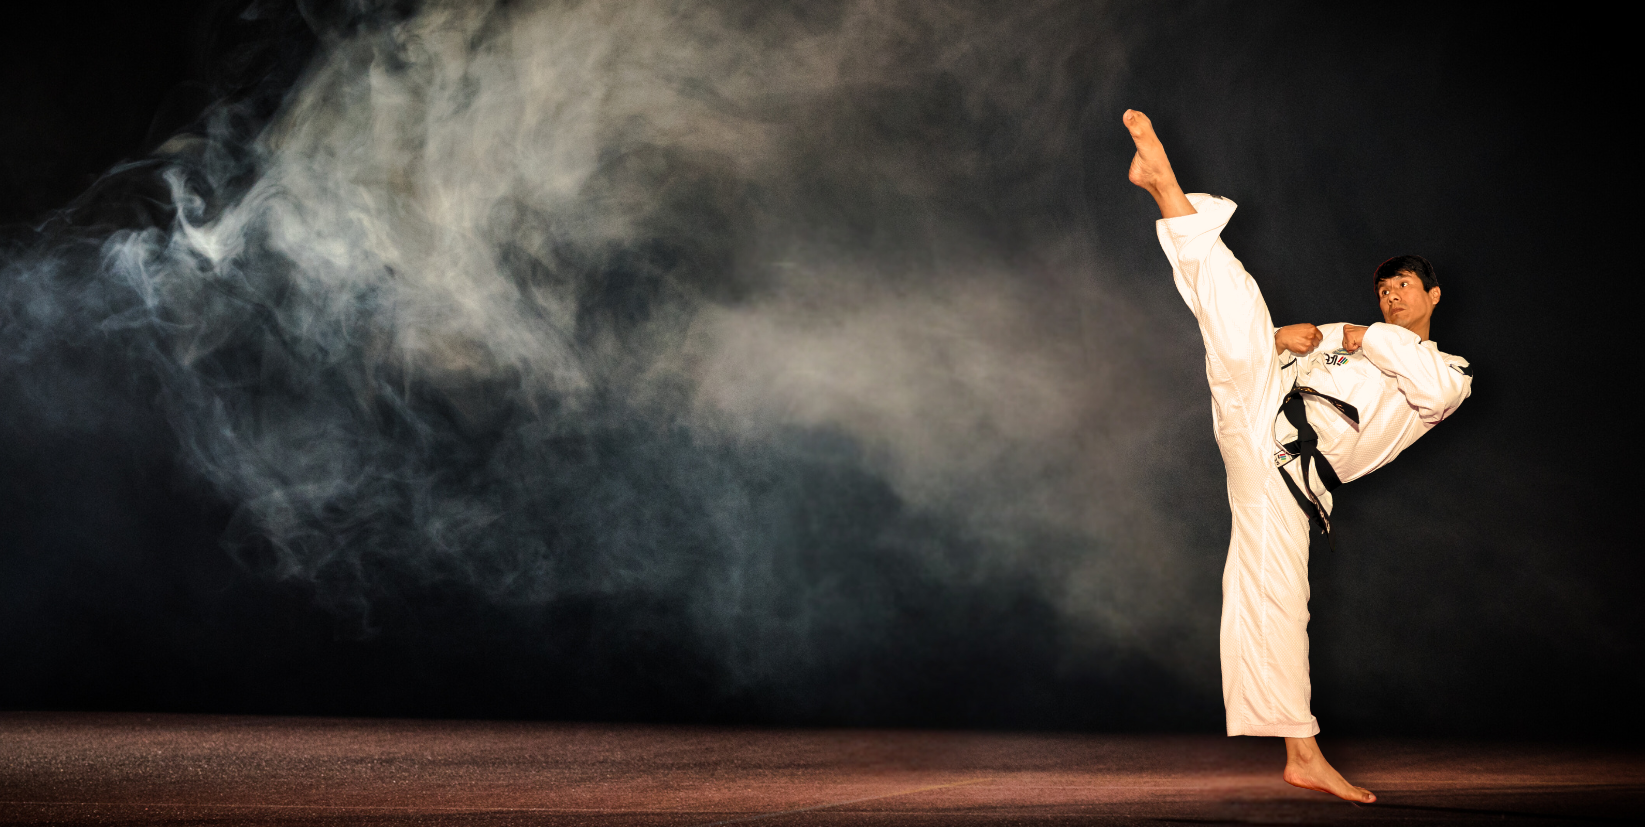
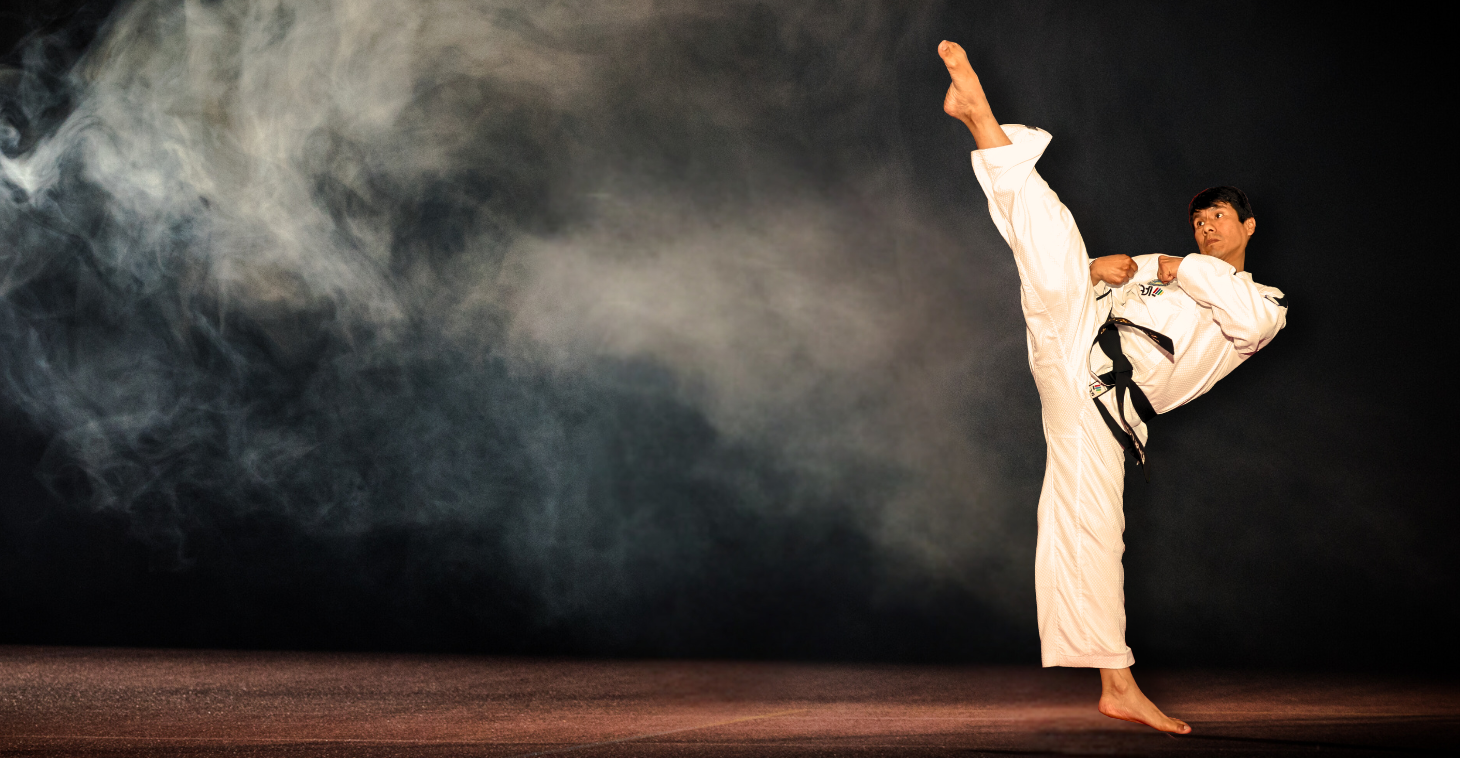
V.3 Fertex

diff --git a/src/styles/Content.css b/src/styles/Content.css
@@ -6,75 +6,131 @@
 }
   
 .hero-section {
+    position: relative;
     background-image: url('../assets/images/fondo-inicio.png');
     background-size: cover;
-    background-position: center;
-    height: 60vh;
+    background-position: 85%;
+    height: 65vh;
     min-height: 300px;
     max-height: 600px;
     display: flex;
     align-items: flex-start;
-    padding-top: 3rem;
+    padding-top: 5.5rem;
     color: white;
+    background-attachment: fixed;
+    overflow: hidden;
 }
-  
+
+.hero-section::before {
+  content: "";
+  position: absolute;
+  inset: 0;
+  background: rgba(0, 0, 0, 0.45); /* oscurece sin opacar el texto */
+  z-index: 1;
+}
+
+@media (min-width: 768px) {
+    .hero-section {
+        background-position: right top;  
+    }
+    .hero-section::before {
+    background: rgba(0, 0, 0, 0.15); /* oscurece sin opacar el texto */
+
+    }
+}
+
 .hero-wrapper {
+    position: relative;
     width: 100%;
-    max-width: 1200px;
+    max-width: 1300px;
     margin: 0 auto;
-    padding: 0 2rem;
+    padding: 0 5rem;
+    z-index: 2;
 }
-  
+
 .hero-content {
-    text-align: left;
+    text-align: center;
 }
-  
+
+@media (min-width: 768px) {
+    .hero-content {
+        padding-right: 18rem;
+        text-align: left;
+    }
+}
+
+@media (min-width: 1300px) {
+    .hero-content {
+        padding-right: 23rem;
+    }
+}
+
 .hero-content h2.hero-subtitle {
     margin: 2rem 0 0 0;
     font-size: 2.5rem;
-    font-weight: 500;
+    font-weight: 400;
+    line-height: 1;
 }
   
 .hero-content h1.hero-title {
+    font-family: "Saira Stencil One", sans-serif;
     margin: 0.3rem 0;
     font-size: 8rem;
     font-weight: 600;
+    line-height: 0.9;
 }
-  
+
+@media (min-width: 1300px) {
+    .hero-content h1.hero-title {
+        margin-left: -5px;
+    }
+    .typing {
+        text-wrap: nowrap;
+        overflow: hidden;
+        width: 5.7ch;
+        animation: typing 0.5s steps(6) forwards;
+    }
+    @keyframes typing {
+        from {
+            width: 0ch;
+        }
+    }
+}
+
 .hero-content p.hero-text {
-    margin: 0.5rem 0 0;
-    font-size: 1.5rem;
-    font-weight: 500;
+    margin: 1.5rem 0;
+    font-size: 1.4rem;
+    font-weight: 400;
+    line-height: 1.2;
 }
 
 .intro-section {
+    position: relative;
     background-color: #ffffff;
     padding: 2rem 20%;
     text-align: left;
+    z-index: 2;
 }
-  
 
 .cards-container {
     display: flex;
-    gap: 2rem;
+    gap: 3rem;
     justify-content: center;
     flex-wrap: wrap;
     margin-top: -5rem;
+    z-index: 2;
 }
   
 .card {
-    /* max-width: 300px; */
     flex: 1 1 250px;
     background-color: #ffffff;
     border-radius: 1rem;
     padding: 2rem 1.5rem;
-    display: flex;
     flex-direction: column;
     align-items: center;
     text-align: center;
     box-shadow: 0 4px 8px rgba(0,0,0,0.1);
     border-bottom: 6px solid transparent;
-    border-radius: 1rem 1rem 1rem 1rem;
 }
 
 .card-orange {
@@ -86,7 +142,7 @@
 }
 
 .card-red {
-    border-bottom-color: #FF4C4C;
+    border-bottom-color: #e72929;
 }
 
 
@@ -99,19 +155,19 @@
 .card-title {
     font-size: 1.3rem;
     font-weight: 700;
-    margin: 0 0 0.5rem 0;
+    margin-bottom: 1rem;
 }
 
 
 .card-text {
     font-size: 1rem;
-    color: black;
-    margin: 0 0 2rem 0;
+    color: #1a1a1a;
+    margin-bottom: 2rem;
 }
 
 .card-orange .card-icon,
 .card-orange .card-title {
-    color: #FF7F50;
+    color: #F7842E;
 }
 
 .card-yellow .card-icon,
@@ -121,46 +177,84 @@
 
 .card-red .card-icon,
 .card-red .card-title {
-    color: #FF4C4C;
+    color: #e72929;
 }
 
-.card-orange .card-line {
-    background-color: #FF7F50;
+@media (min-width: 930px) {
+    @keyframes fadeSlideInLeft {
+    from { opacity: 0; transform: translateX(-90px); }
+    to   { opacity: 1; transform: translateX(0); }
+    }
+    @keyframes fadeSlideInUp {
+    from { opacity: 0; transform: translateY(90px); }
+    to   { opacity: 1; transform: translateY(0); }
+    }
+    @keyframes fadeSlideInRight {
+    from { opacity: 0; transform: translateX(90px); }
+    to   { opacity: 1; transform: translateX(0); }
+    }
+    .cards-container .card:nth-child(1) {
+    animation: fadeSlideInLeft 1s ease-out forwards .05s;
+    }
+    .cards-container .card:nth-child(2) {
+    animation: fadeSlideInRight 1s ease-out forwards .05s;
+    }
+    .cards-container .card:nth-child(3) {
+    animation: fadeSlideInUp 1s  ease-out forwards .05s;
+    }
 }
-
-.card-yellow .card-line {
-    background-color: #FFD700;
+@media (min-width: 1425px) {
+    .cards-container .card:nth-child(2) {
+    animation: fadeSlideInUp 1s ease-out forwards .05s;
+    }
+    .cards-container .card:nth-child(3) {
+    animation: fadeSlideInRight 1s  ease-out forwards .05s;
+    }
 }
-
-.card-red .card-line {
-    background-color: #FF4C4C;
-}
-
 
 @media (max-width: 768px) {
-    .hero-section {
-        height: 40vh;
-        padding-top: 2rem;
+    .hero-wrapper {
+        padding: 0 2.5rem;
     }
-
+    .hero-section {
+        height: 60vh;
+        padding-top: 5rem;
+    }
     .hero-content h2.hero-subtitle {
-        font-size: 1.2rem;
+        font-size: 1.4rem;
     }
     .hero-content h1.hero-title {
-        font-size: 3.5rem;
+        font-size: 4.5rem;
     }
     .hero-content p.hero-text {
-        font-size: 1rem;
+        padding: 0 1.7rem;
+        font-size: 1.2rem;
+        line-height: 1.4;
     }
-
     .intro-section {
         padding: 3rem 5%;
     }
-
-    .cards-container{
-        margin-top: -2rem;
+    .cards-container {
+        gap: 2rem;
+        margin-top: -5.5rem;
+    }  
+    .card {
+        border-radius: 1rem;
+        padding: 2rem 1.5rem;
+        margin: 0 1rem;
+    }
+    @keyframes fadeOnly {
+        from { opacity: 0; }
+        to { opacity: 1; }
+    }
+    .cards-container .card:nth-child(1),
+    .cards-container .card:nth-child(2),
+    .cards-container .card:nth-child(3) {
+        animation: fadeOnly 1s ease-out forwards .05s;
+        transform: none !important;
     }
 }
+
 
 /**************************** NOSOTROS ****************************/
 

diff --git a/src/components/Inicio.jsx b/src/components/Inicio.jsx
@@ -11,9 +11,8 @@ function Inicio() {
         <div className="hero-wrapper">
           <div className="hero-content">
             <h2 className="hero-subtitle">ARTES MARCIALES</h2>
-            <h1 className="hero-title">FERTEX</h1>
-            <p className="hero-text">TaekwondoFertex - Escuela de artes marciales con 20 años de experiencia.</p>
-            <p className="hero-text">Enseñanza y difusión del Taekwondo ITF, Muay Thai, Capoeira y Preparación física.</p>
+            <h1 className="hero-title typing">FERTEX</h1>
+            <p className="hero-text">TaekwondoFertex - Escuela de artes marciales con 20 años de experiencia. Enseñanza y difusión del Taekwondo ITF, Muay Thai, Capoeira y Preparación Física.</p>
           </div>
         </div>
       </div>
@@ -45,7 +44,6 @@ function Inicio() {
 
         </div>
       </div>
-
     </div>
   );
 }

diff --git a/src/index.css b/src/index.css
@@ -1,4 +1,5 @@
 @import url('https://fonts.googleapis.com/css2?family=Karla:ital,wght@0,200..800;1,200..800&display=swap');
+@import url('https://fonts.googleapis.com/css2?family=Saira+Stencil+One&display=swap');
 
 * {
   box-sizing: border-box;
